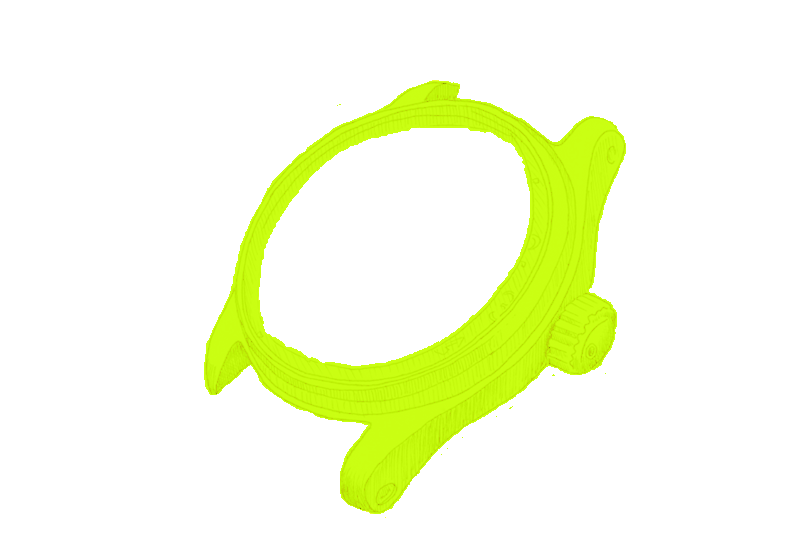
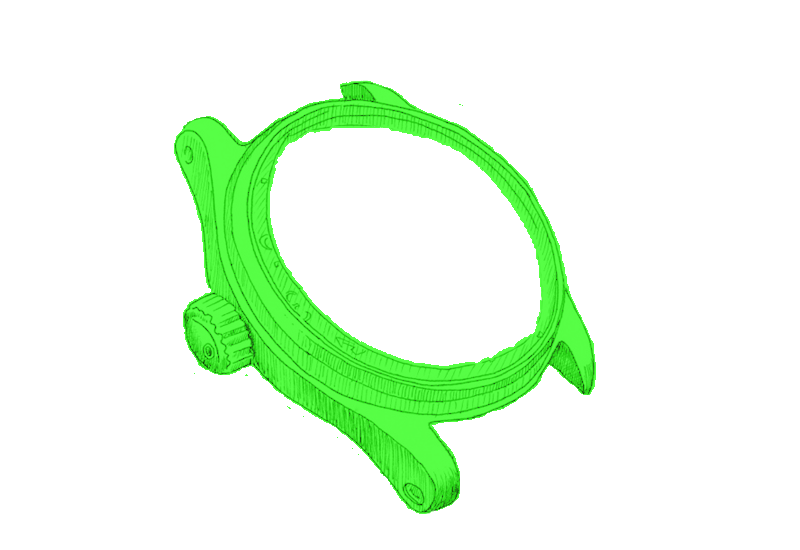
Change angle or example and update images

Changed region(s): [[0.2188, 0.1236, 0.7812, 0.9273]]

diff --git a/src/App.vue b/src/App.vue
@@ -4,7 +4,7 @@
       <vpc-image class="vic-image" ref="vicImage" :style="imageStyle" :color="colors[currentColor]" :sticker="stickers[currentSticker]" 
       :erase="erase" :tool-width="toolWidth" :src="mainLayers[currentMainLayer]"
       :bw-src="require('./assets/watch-sketch-example.png')" :sticker-width="stickerSize" :sticker-height="stickerSize"
-      :sub-layers="subLayers" :zoom-level="zoomLevel" :rotation="90"></vpc-image>
+      :sub-layers="subLayers" :zoom-level="zoomLevel" :rotation="45"></vpc-image>
     </div>
     <div class="colors">
       <div class="color-container" v-for="(color, i) in colors" :key="i">
